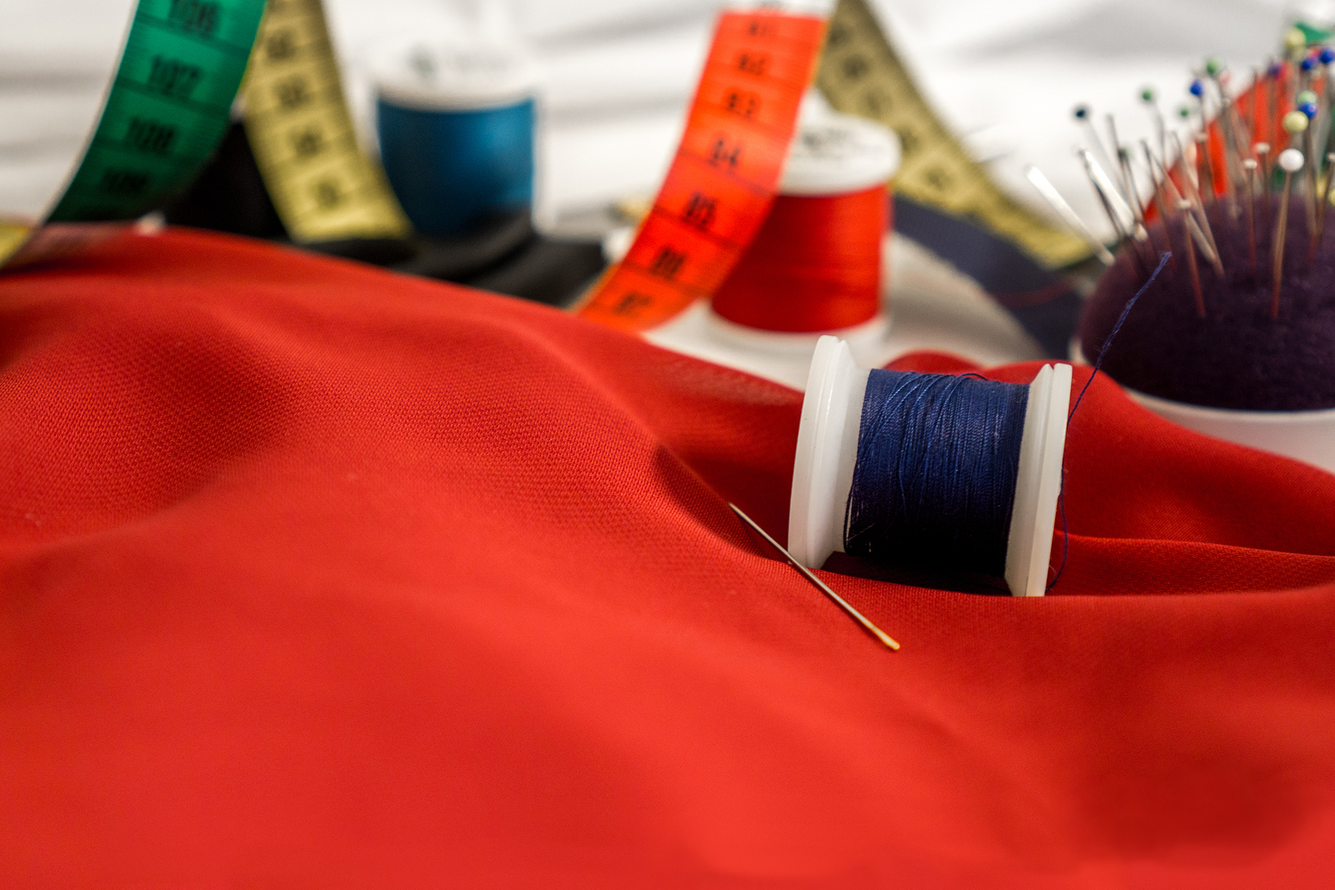
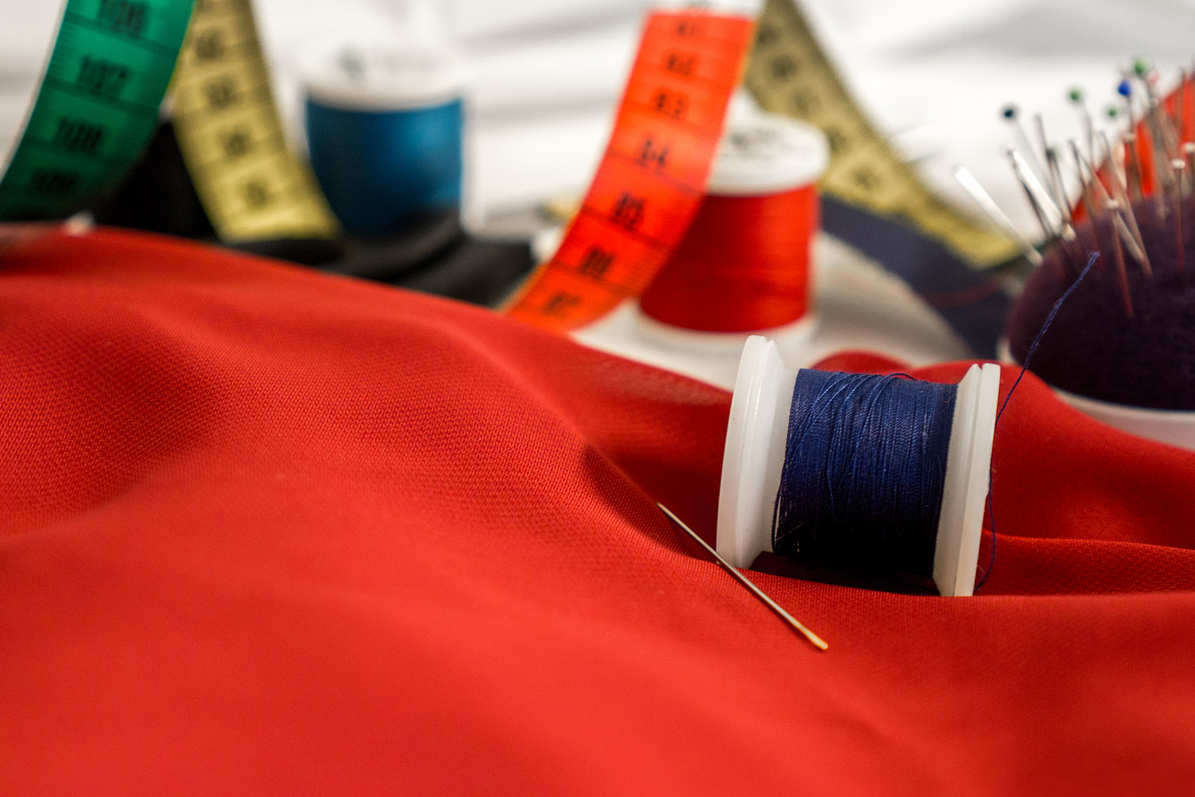
box-sizing fixed

diff --git a/public/style.css b/public/style.css
@@ -1,11 +1,11 @@
-/*
-HPI Yellow: #73d216;
-HPI Orange: #4e9a06;
-HPI Red: #cc0000;
-*/
 
 * {
 	margin:0 ;
+}
+
+body, html {
+    padding: 0;
+    margin: 0;
 }
 
 body {
@@ -13,17 +13,40 @@ body {
 	font-style: "normal";
 	background-color: white;
 	box-sizing: border-box;
+	padding: 0;
+	margin: 0;
+	width: 100%;
+	height: 100%;
+	overflow-x: hidden;
+}
 
+@media only screen and (max-width: 630px) {
+  .sewing-image .table,
+  .sewing-image .table-cell {
+    display: block;
+    width: 100%;
+    text-align: center;
+    margin: 20px 0;
+  }
+
+	h1 {
+		font-size: 22px !important;
+		font-weight:600;
+	}
+}
+
+body * {
+	box-sizing: border-box;
 }
 
 .sewing-image {
+		background-image: url(bg-picture.jpg);
 		background-repeat: no-repeat;
 		background-size: cover;
-		background-position: 30% 30%;
+		background-position: 50% 50%;
 		width: 100%;
 		position: relative;
-		min-height: 600px;
-
+		height: 100vh;
 }
 
 .sewing-image .content {
@@ -34,7 +57,8 @@ body {
 		color: black;
 		z-index: 3;
 		padding: 50px;
-}
+		font-family: 'Rock Salt', cursive;
+	}
 
 .table-cell {
 		display: table-cell;
@@ -58,6 +82,7 @@ body {
 
 
 }
+
 
 
 table {
@@ -94,7 +119,7 @@ th {
 
 
 h1 {
-	font-size:38px;
+	font-size:5em;
 	font-weight:600;
 	color:#FFFFFF;
 	float:left;
@@ -180,5 +205,7 @@ form {
 	white-space: nowrap;
 	overflow:hidden;
 	padding: 10;
+
+
 
 }
